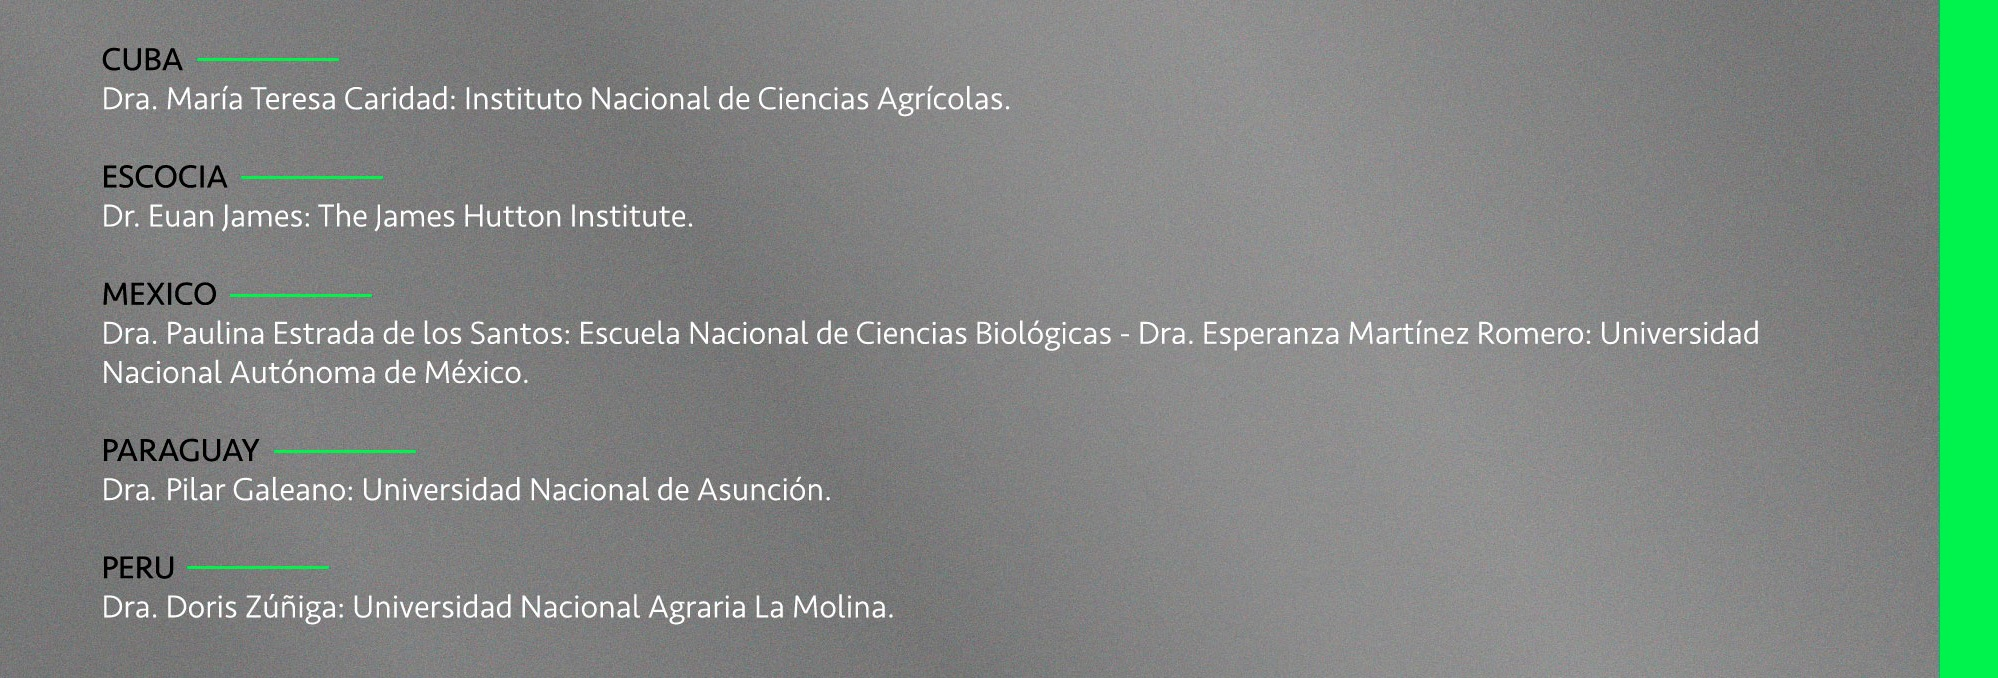
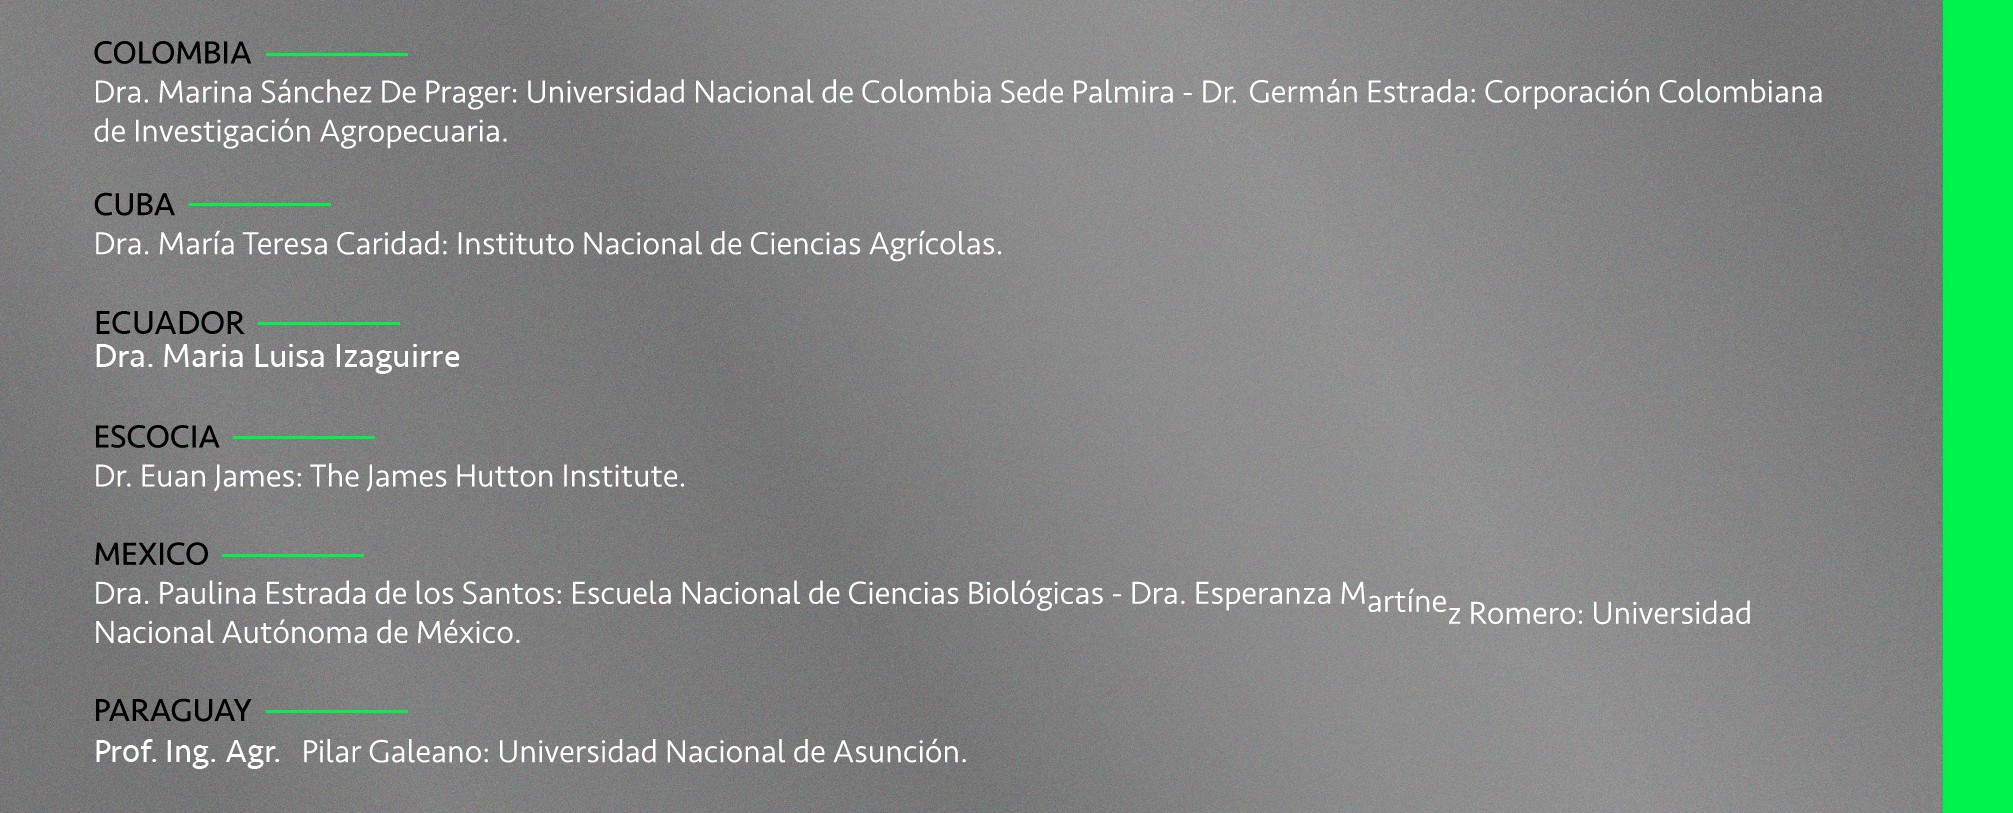
Actualización de placas

diff --git a/src/app/services/data.service.ts b/src/app/services/data.service.ts
@@ -42,7 +42,7 @@ export class DataService {
       "texto": "Próximamente más información"
     },
     "conservación-y-manejo-microbiano": {
-      "conferencistas": ["mariana-sanchez", "alda-rodriguez"],
+      "conferencistas": ["marina-sanchez", "alda-rodriguez"],
       "coordinadores": "Coordinadores: Dra. Natalia Bajsa (Uruguay) y Dr. Luis Wall (Argentina)",
       "horario": "Jueves 7 de octubre",
       "nombre": "Conservación y manejo microbiano en sistemas naturales y agroecosistemas",
@@ -165,9 +165,9 @@ export class DataService {
       "titulo": "Próximamente más información"
     },
     "marina-sanchez":{
-      "bio": "La profesora Mariana Sanchez es Ingeniera Agrónoma, Maestra en Administración de Empresas y en Suelos y Aguas, Doctor Ingeniero Agrónomo de la Universidad Politécnica ETSIA Madrid Área de énfasis en Tecnologías Agroambientales. Profesora Titular de Dedicación Exclusiva, Tenente de Cargo de la Universidad Nacional de Colombia-Sede Palmira, Investigadora Emérita del Departamento Administrativo de Ciencia, Tecnología e Innovación COLCIENCIAS, coordinadora grupo de investigación en Agroecología,  sus áreas de trabajo: Microbiología Agrícola, Biología y Microbiología del Suelo, Fitopatología con énfasis en hongos y bacterias, Agricultura Ecológica y en este momento integra desde su experiencia todas estas áreas en la Agroecología.",
+      "bio": "La profesora Marina Sanchez es Ingeniera Agrónoma, Maestra en Administración de Empresas y en Suelos y Aguas, Doctor Ingeniero Agrónomo de la Universidad Politécnica ETSIA Madrid Área de énfasis en Tecnologías Agroambientales. Profesora Titular de Dedicación Exclusiva, Tenente de Cargo de la Universidad Nacional de Colombia-Sede Palmira, Investigadora Emérita del Departamento Administrativo de Ciencia, Tecnología e Innovación COLCIENCIAS, coordinadora grupo de investigación en Agroecología,  sus áreas de trabajo: Microbiología Agrícola, Biología y Microbiología del Suelo, Fitopatología con énfasis en hongos y bacterias, Agricultura Ecológica y en este momento integra desde su experiencia todas estas áreas en la Agroecología.",
       "horario": "10:00",
-      "nombre": "Dra. Mariana Sánchez",
+      "nombre": "Dra. Marina Sánchez",
       "pais": "Colombia",
       "sid": "conservación-y-manejo-microbiano",
       "texto": "",
